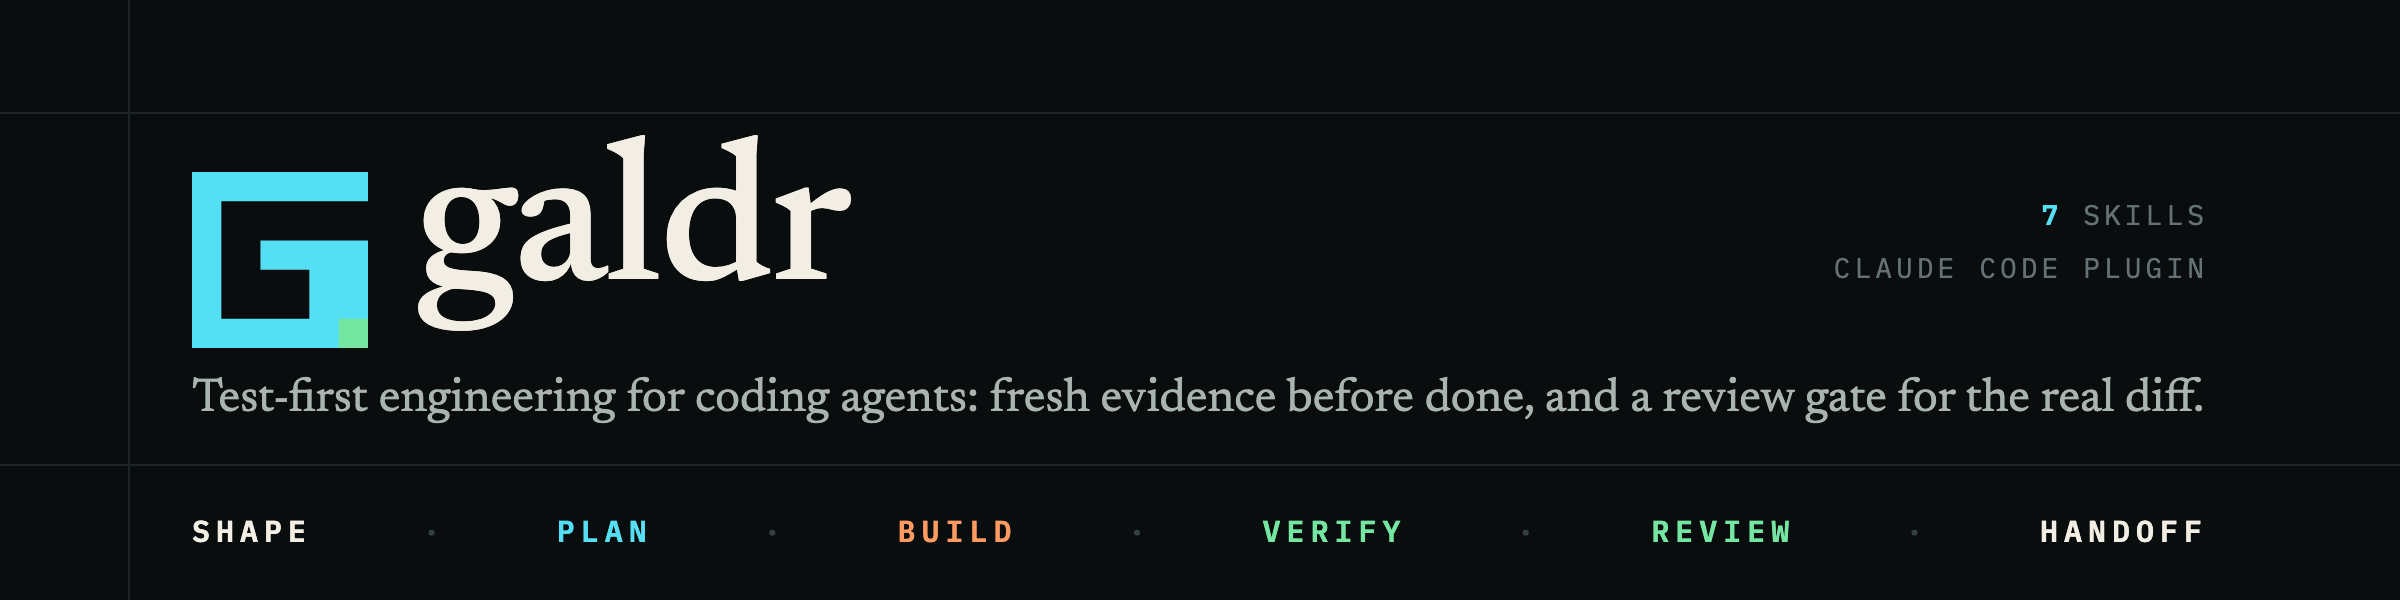
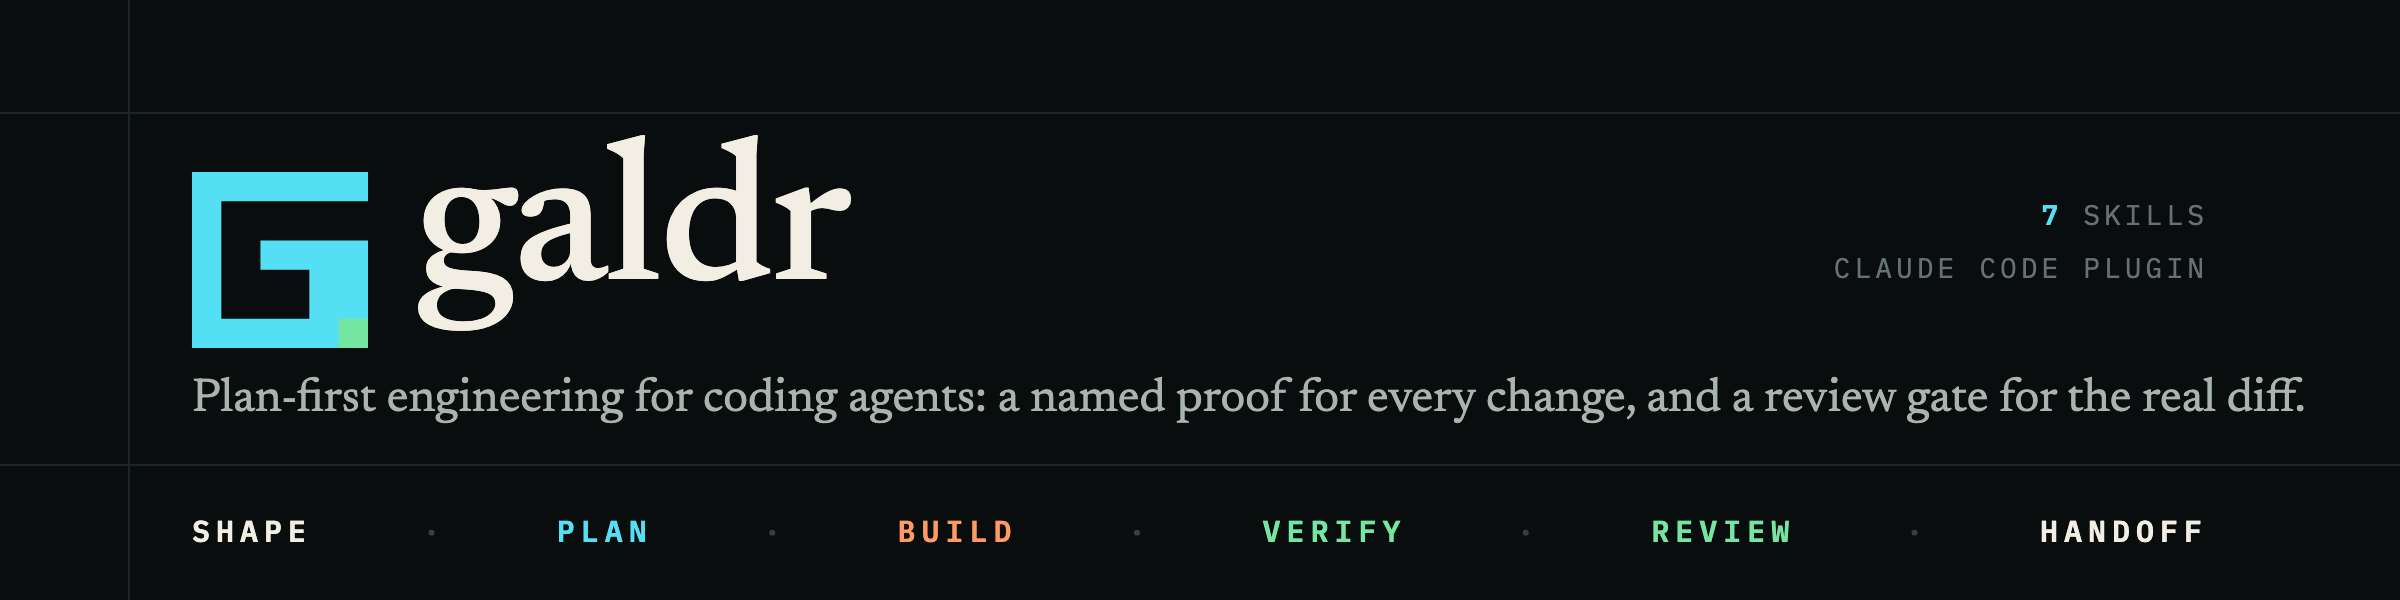
publish: sync pack from dev @ 97ac929

Changed region(s): [[0.0625, 0.63, 0.9688, 0.72]]

diff --git a/skills/tdd/SKILL.md b/skills/tdd/SKILL.md
@@ -5,54 +5,60 @@ description: Use before writing or changing any production code, including featu
 
 # TDD
 
+Every change ships with a test that proves it. The loop depends on the change.
+
+## Bugs, regressions, and test-first on request
+
 NO PRODUCTION CODE WITHOUT A FAILING TEST FIRST.
 
-This is a hard rule, not a preference. If you are about to write or edit production
-code and no failing test exists for that change yet, stop and write the test first.
-
-## The loop
+A hard rule for bug fixes, regressions, and test-first requests: with no failing test
+yet, stop and write one.
 
 1. Write one failing test for the next smallest behavior.
-2. Run it and read the failure:
-   - **Fails as expected** (the assertion fails for the reason you expect): continue.
-   - **Fails wrong** (compile error, crash before the assertion): fix the test or its
-     setup; do not touch production code yet.
-   - **Passes** with no production change: the test proves nothing; rewrite it so it
-     fails first.
+2. Run it and read the failure: an assertion failing for the expected reason means
+   continue; a compile error or crash means fix the test; a pass means the test proves
+   nothing, so rewrite it.
 3. Record `EV [<task> RED] <test cmd> → FAIL (<expected failure>)`.
-4. Write the least production code that passes it.
-5. Run the test and the type checker to green; record `EV [<task> GREEN] <test cmd> →
-   PASS`.
-6. Clean up with the test still green: names, duplication, and comments. A new comment
-   stays only if it is on review's comments keep list (license header, tool directive,
-   non-obvious constraint or decision, API contract, issue link).
-7. Commit the test and the code together: one logical change, conventional prefix. When
-   the user asked for browser approval, leave it uncommitted until the gate approves.
+4. Write the least production code that passes it, then record `EV [<task> GREEN]
+   <test cmd> → PASS`.
 
-In the loop, run only the focused test and type checker; the full suite runs before any
-completion claim.
+Code written for a bug before its test is deleted, not kept as reference, and the loop
+restarts from a failing test.
 
-## If code exists before its test
+## New behavior
 
-Delete it. Do not keep it as reference and do not wrap tests around it. Restart the
-loop with a failing test.
+1. Name the proof before coding: the task's `Proof:` line says which tests, at which
+   boundary, decide it.
+2. Write those tests from the requirement, never from the code: before or alongside the
+   code, at a public boundary.
+3. Show each new test can fail: run it once with the behavior removed or broken and
+   record the failure as an `EV` line.
+
+## Every change
+
+- Clean up with the tests green: names, duplication, and comments. A new comment stays
+  only if it is on review's comments keep list.
+- Commit the test and the code together, one logical change; when the user asked for
+  browser approval, leave it uncommitted until the gate approves.
+- Run the focused test and type checker while working, the full suite before any
+  completion claim.
 
 ## Test isolation
 
 - Unit tests run in one process: no network, real clock or sleep, Docker, credentials,
   or databases.
 - Behavior that needs a database, queue or HTTP transport gets an integration test
-  against an isolated test instance, with set-up and clean-up that give the same
-  result every run, kept apart from the unit tests.
+  against an isolated test instance, with repeatable set-up and clean-up, apart from
+  the unit tests.
 - Never point a test at a live endpoint or production credentials.
 - Test observable behavior, not configuration values or private internals.
 
 ## Mock gate
 
 Mock only at a boundary you can name, with the reason the real dependency cannot run
-there (network, clock, cost). Prefer the real dependency or an in-memory fake. A test
-that only checks a mock was called, restates the implementation, or snapshots output
-with no stated intent proves nothing.
+there. Prefer the real dependency or an in-memory fake. A test that only checks a mock
+was called, restates the implementation, or snapshots output with no stated intent
+proves nothing.
 
 ## Rationalizations
 

diff --git a/README.md b/README.md
@@ -1,19 +1,19 @@
 <p align="center">
-  <img src="assets/banner.png" alt="galdr: test-first engineering for coding agents. Shape, plan, build, verify, review, handoff." width="100%">
+  <img src="assets/banner.png" alt="galdr: plan-first engineering for coding agents. Shape, plan, build, verify, review, handoff." width="100%">
 </p>
 
 <p align="center">
   <img src="https://img.shields.io/badge/Claude_Code-plugin-6e56cf?style=flat-square" alt="Claude Code plugin">
-  <a href="CHANGELOG.md"><img src="https://img.shields.io/badge/version-1.0.1-22d3ee?style=flat-square" alt="version 1.0.1"></a>
+  <a href="CHANGELOG.md"><img src="https://img.shields.io/badge/version-1.1.0-22d3ee?style=flat-square" alt="version 1.1.0"></a>
   <a href="skills/"><img src="https://img.shields.io/badge/skills-7-34d399?style=flat-square" alt="7 skills"></a>
-  <img src="https://img.shields.io/badge/discipline-TDD_first-f59e0b?style=flat-square" alt="TDD first">
+  <img src="https://img.shields.io/badge/discipline-proof_first-f59e0b?style=flat-square" alt="proof first">
 </p>
 
 <h1 align="center">galdr</h1>
 
 <p align="center">
   <b>Seven small skills that make an AI coding agent work like a careful engineer:<br>
-  a failing test before code, fresh evidence before "done",<br>
+  a plan and a named proof before code, fresh evidence before "done",<br>
   and, when you ask, your approval of the real diff before it is committed.</b>
 </p>
 
@@ -49,7 +49,7 @@ skills load when they apply, and everything else waits for a slash command.
 
 ```mermaid
 flowchart LR
-    A([request]) --> G{{/galdr}} --> S[shape] --> P[plan file] --> B[build test-first] --> V[verify] --> R[review + gate] --> Z([committed, your call to push])
+    A([request]) --> G{{/galdr}} --> S[shape] --> P[plan file] --> B[build against proofs] --> V[verify] --> R[review + gate] --> Z([committed, your call to push])
     classDef flow fill:#0b1120,stroke:#22d3ee,stroke-width:1px,color:#e0f2fe;
     class A,G,S,P,B,V,R,Z flow;
 ```
@@ -59,7 +59,7 @@ flowchart LR
 | Request | Playbook | Ends with |
 |---|---|---|
 | A question or a critique | `investigate` | A cited answer and one recommendation; nothing edited |
-| New or changed behavior | `feature` | Plan file, test-first tasks, review |
+| New or changed behavior | `feature` | Plan file, tasks with proofs, review |
 | Behavior that is wrong | `bug` | Root cause, a reproducing test, the fix, review |
 | Structure or performance pain | `refactor` | One ranked finding fixed, tests unchanged, review |
 | A design question code can answer | `prototype` | A recorded decision and a test list; the prototype deleted |
@@ -87,7 +87,7 @@ page loads nothing from the network.
 |---|---|---|
 | [`galdr`](skills/galdr/SKILL.md) | `/galdr` | Picks the playbook, keeps the plan file, runs the tasks, finishes |
 | [`shape`](skills/shape/SKILL.md) | `/galdr:shape` | Turns an idea into the plan's goal and decisions; checks facts itself and asks at most 3 questions |
-| [`tdd`](skills/tdd/SKILL.md) | on its own | No production code without a failing test first |
+| [`tdd`](skills/tdd/SKILL.md) | on its own | Every change ships with a test that proves it; bugs start from a failing test |
 | [`verify`](skills/verify/SKILL.md) | on its own | No "done" without fresh evidence, skip count included; audits docs against code |
 | [`debug`](skills/debug/SKILL.md) | on its own | No fix without a root cause; mitigate first in a live incident |
 | [`review`](skills/review/SKILL.md) | `/galdr:review` | Spec and quality verdicts, comments-are-guilty, the browser gate |

diff --git a/CHANGELOG.md b/CHANGELOG.md
@@ -1,3 +1,10 @@
+## 1.1.0 – 2026-11-14
+
+galdr now describes and enforces the method its author actually uses: plan first, a named proof for every change, test-first for bugs.
+
+- `tdd`: the Iron Law (no production code without a failing test first) now covers bug fixes, regressions, and changes the user asks to be test-first. New behavior names its proof before coding, gets tests written from the requirement at a public boundary (before or alongside the code), and must show each new test can fail once.
+- README, banner, site and manifests lead with plan-first and proof-first instead of test-first.
+
 ## 1.0.1 – 2026-11-14
 
 - One document per piece of work: `shape` writes the goal, constraints and decisions into the plan file instead of a separate spec, `/galdr` adds the tasks to the same file, and the user approves it once. `docs/specs/` is no longer written.

diff --git a/skills/galdr/references/playbook-feature.md b/skills/galdr/references/playbook-feature.md
@@ -8,7 +8,7 @@ For new behavior or a change to existing behavior.
 2. Read the code path the change runs through and its callers, then add Design, Before
    building, Tasks with their proofs, and Review (or write the whole plan, SKILL.md §3),
    and get the whole file approved once.
-3. Run the tasks (SKILL.md §4), each one test-first.
+3. Run the tasks (SKILL.md §4), each against its proof.
 4. Check each task's evidence before marking it done; add its line to Progress and
    advance `next:`.
 5. Finish (SKILL.md §6).

diff --git a/skills/galdr/SKILL.md b/skills/galdr/SKILL.md
@@ -41,7 +41,7 @@ current; a new session resumes from `next:` after checking the claimed state.
 
 ## 4. Run the tasks
 
-**Cheap mode** (default): do the tasks yourself, in order, one test-first loop each.
+**Cheap mode** (default): do the tasks yourself, in order.
 
 **Thorough mode**, for independent tasks that need their own context, or on request:
 one subagent per task, briefed with the goal, the only files it may touch, the tests,
